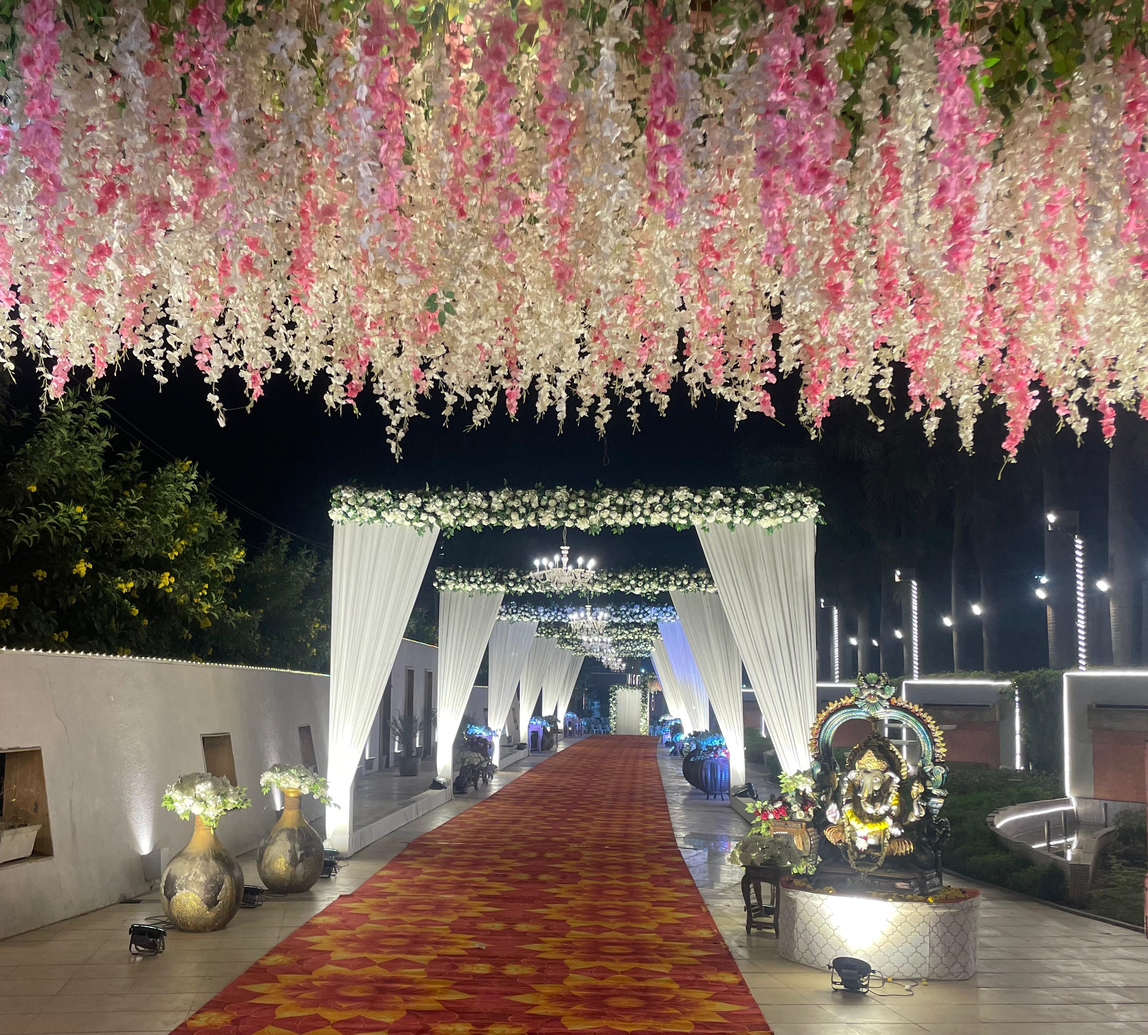
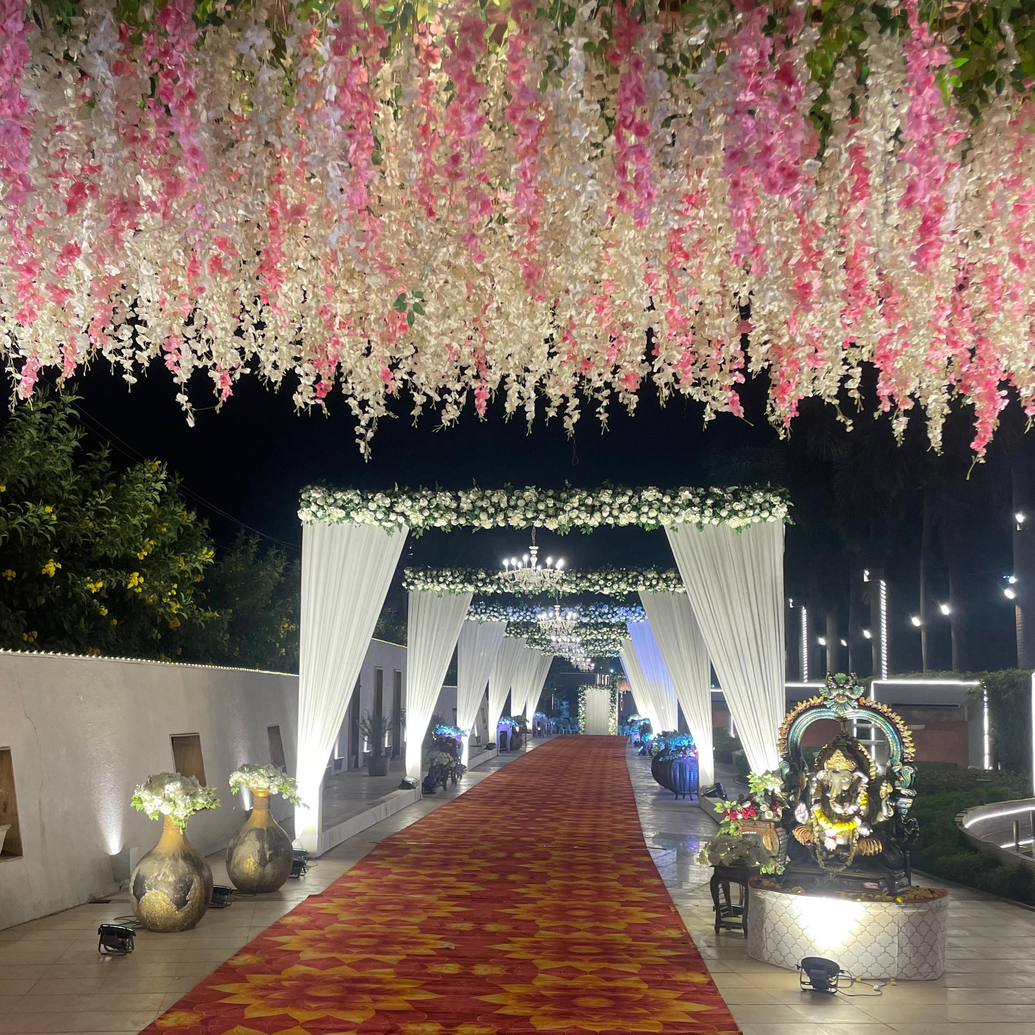
a

diff --git a/index.html b/index.html
@@ -665,8 +665,8 @@
 
         <!-- Service image -->
         <div class="col-lg-6 order-lg-2 order-1 mb-4 mb-lg-0 big-service-wrapper">
-          <div class="big-service-img" style="height:550px;position:relative;border-radius:4px;overflow:visible;">
-            <div class="main-image" style="width:80%;height:80%;border-radius:4px;overflow:hidden;">
+          <div class="big-service-img" style="height:550px;width:550px;position:relative;border-radius:4px;overflow:visible;">
+            <div class="main-image" style="width:100%;height:100%;border-radius:4px;overflow:hidden;">
               <img src="./assets/img/chori6.jpg"
                    alt="Wedding ceremony at Avsar Party Plot — mandap decoration with flowers Anand Gujarat"
                    style="width:100%;height:100%;object-fit:cover;transition:all 0.4s ease;">
